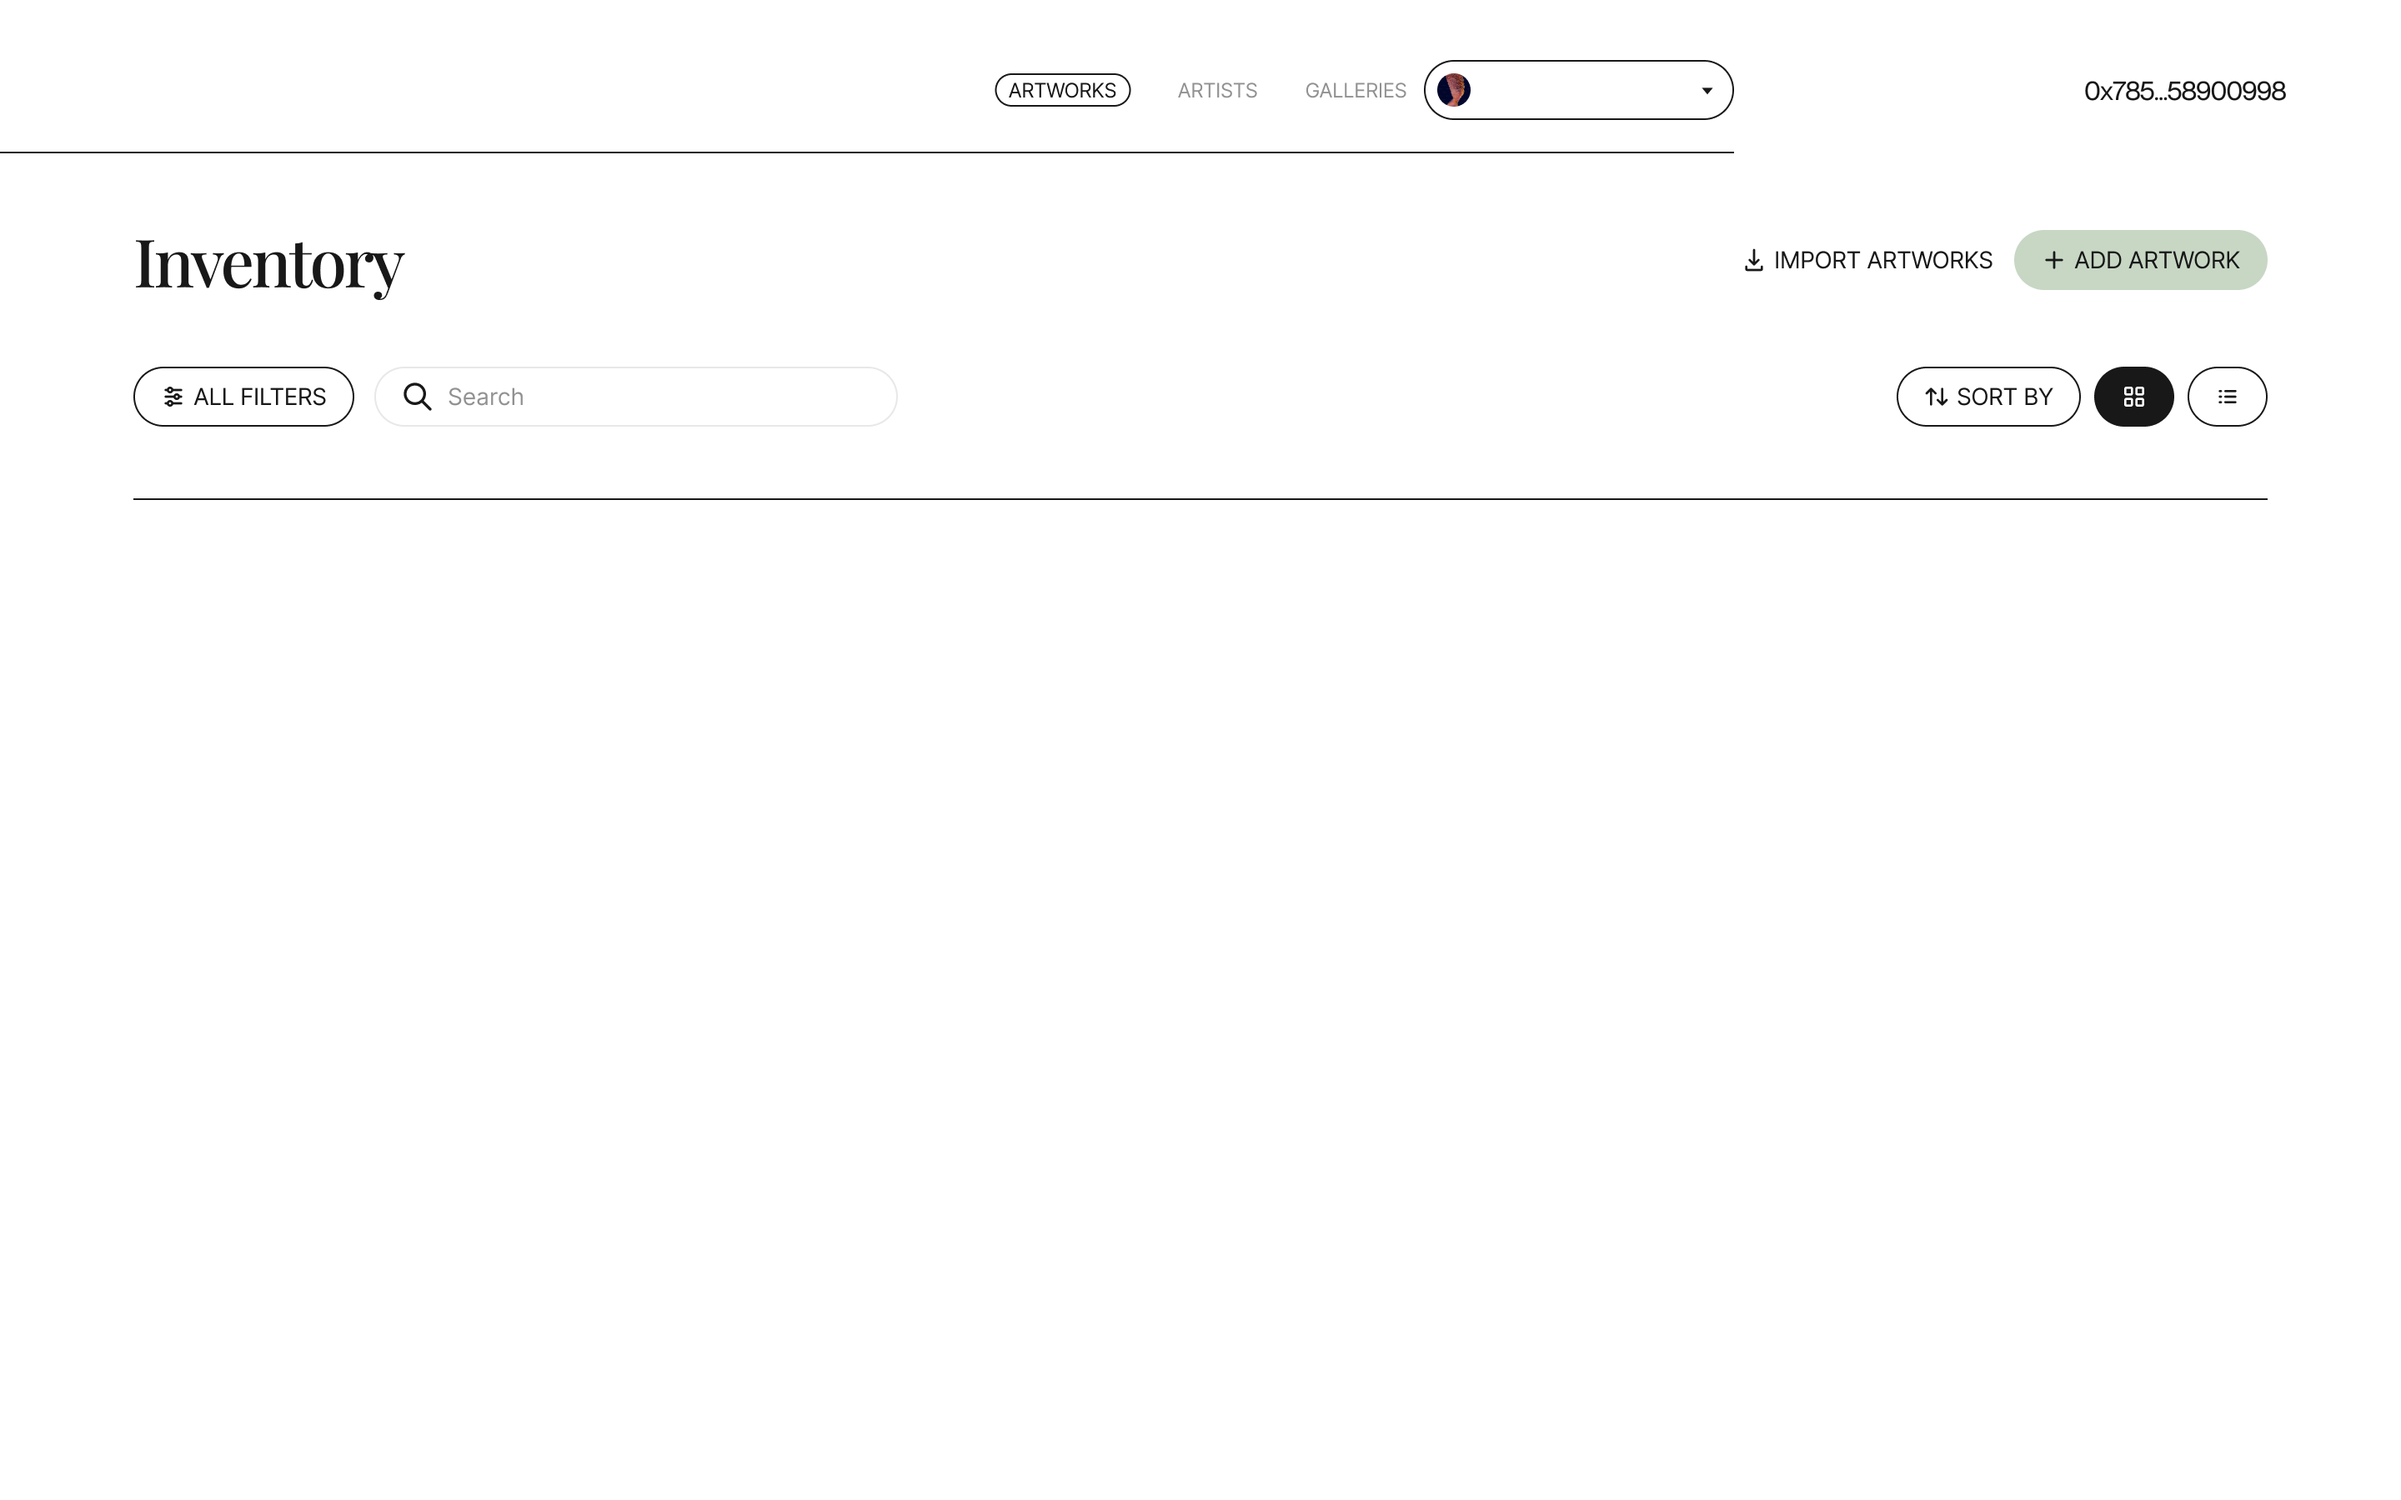
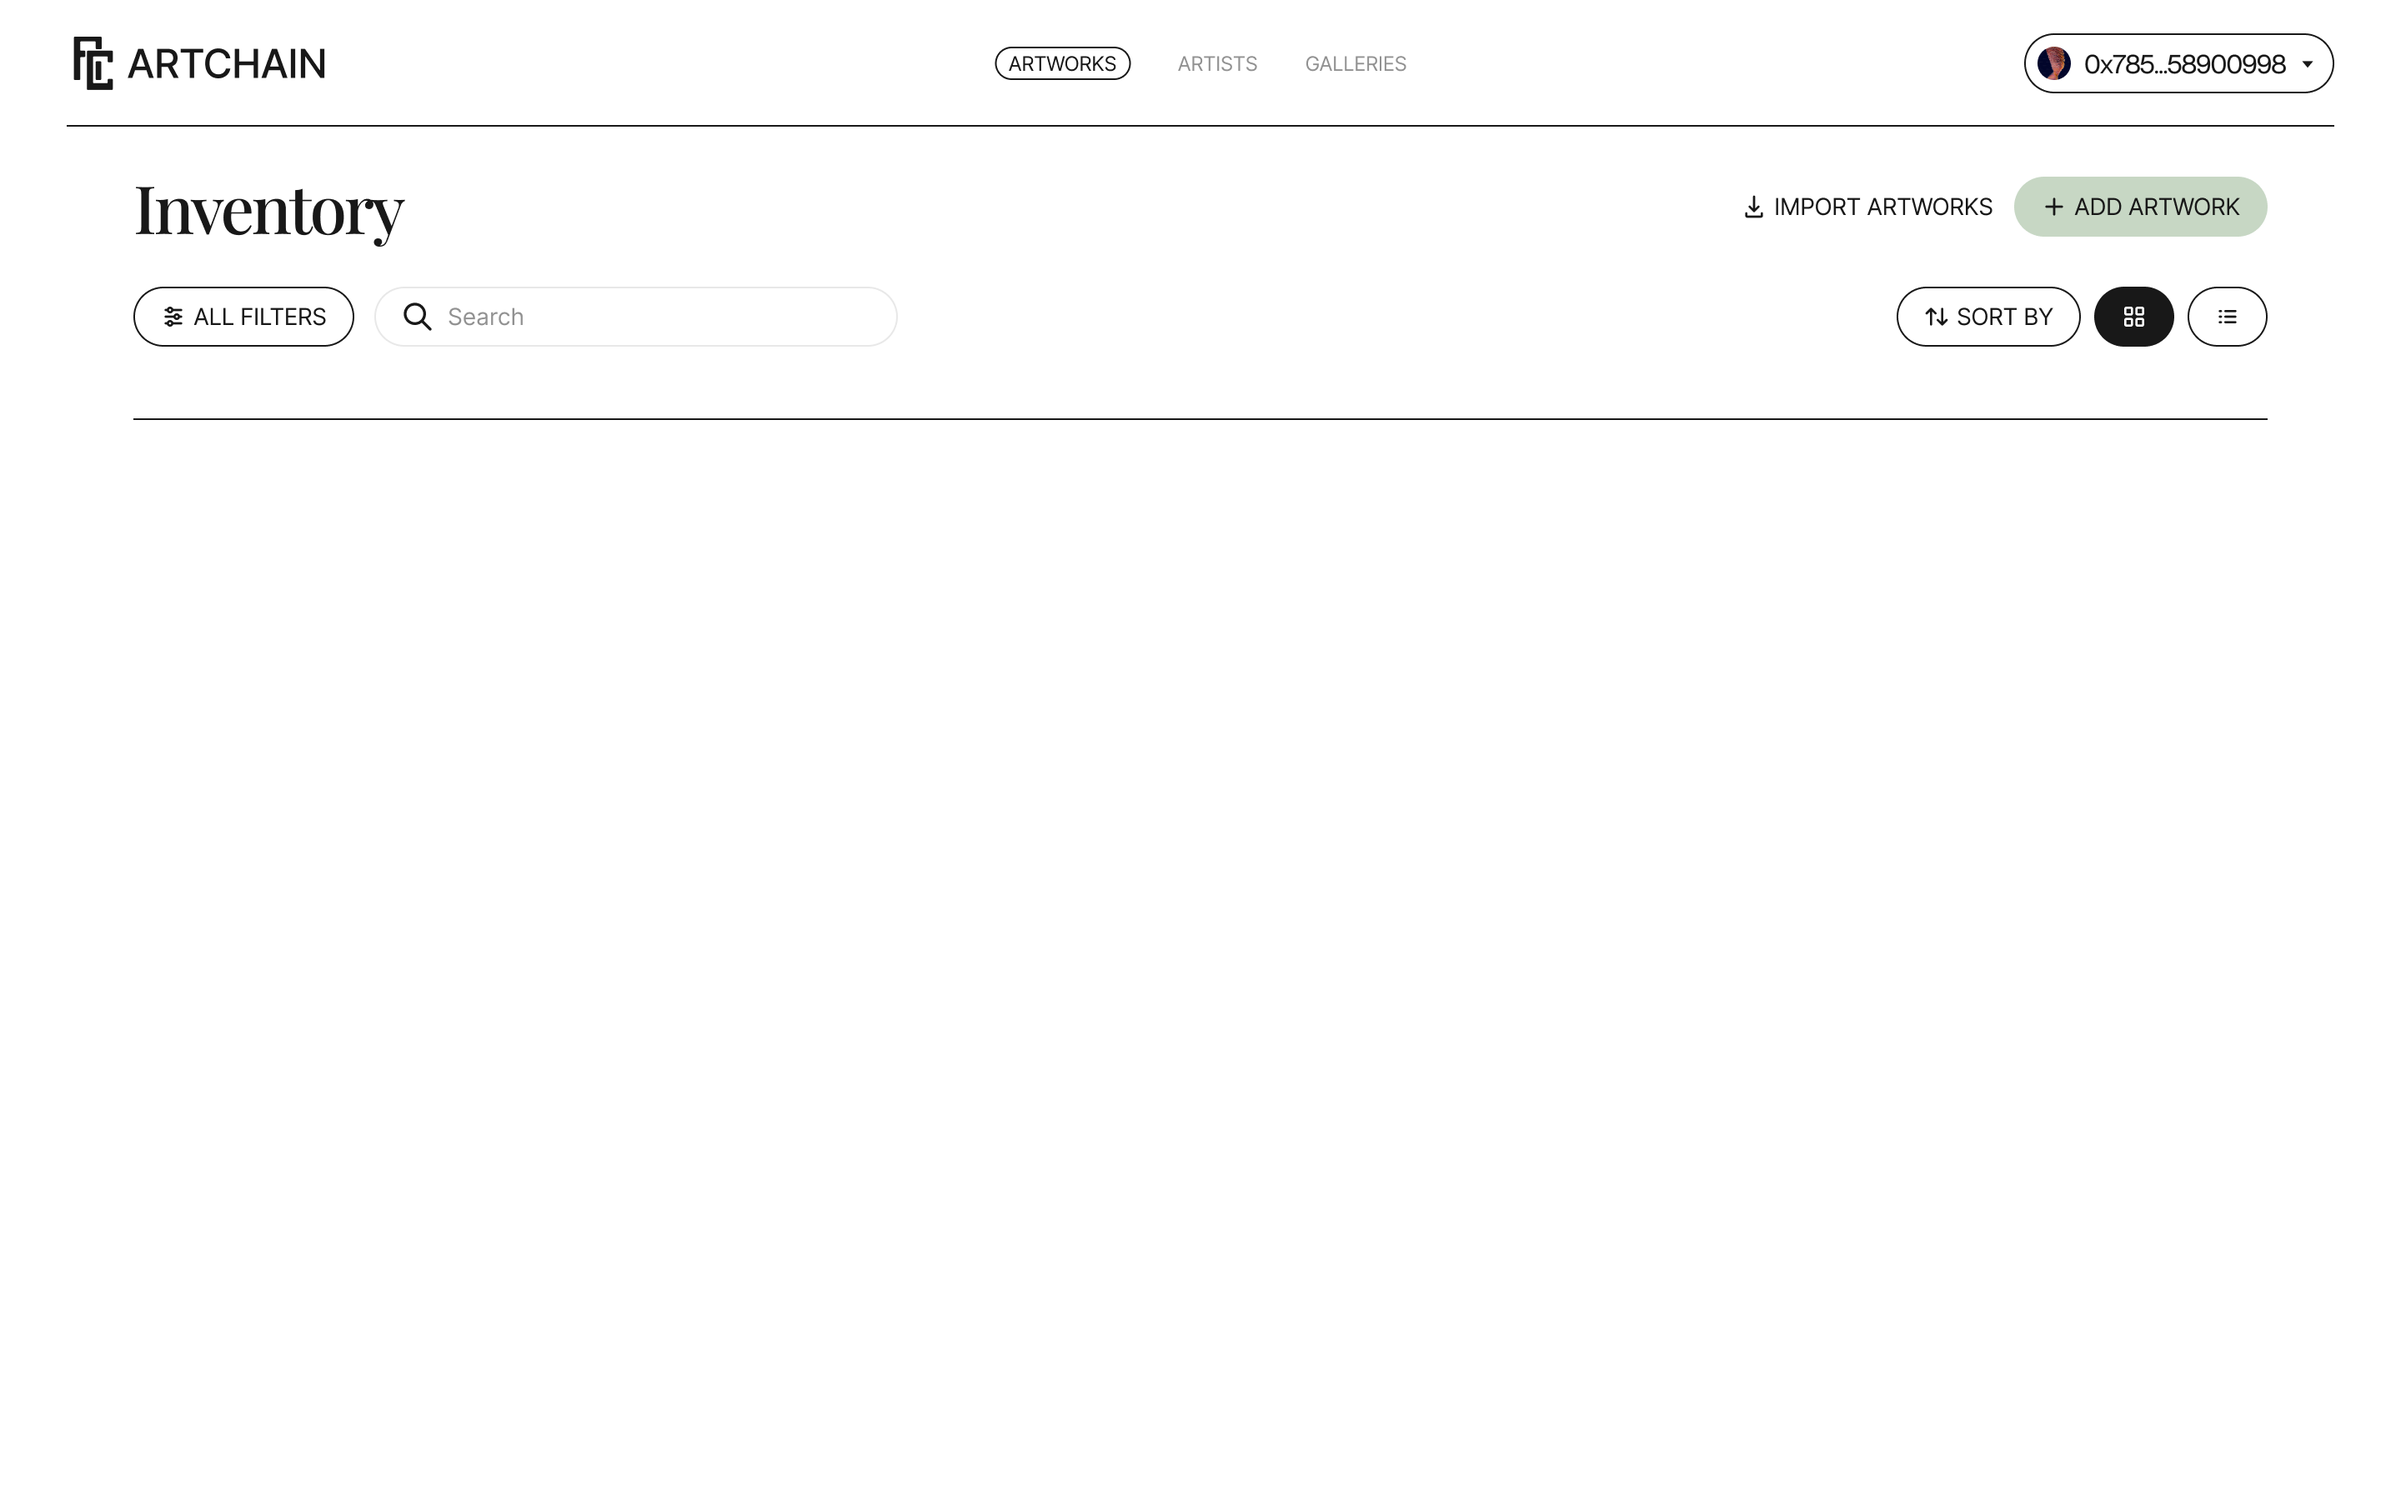
Showreel: fix Artchain grid header and DISio generated layer
- a-chrome-grid: re-exported layer with the full header (logo, nav,
  wallet) and the grid filters; cards move up to 272px to sit under it
- d-generated: re-exported from Figma at 2x with fonts loaded before the
  rescale; the old export had a broken layout (Regenerate and Save pushed
  out of the card, version rows over the text)

diff --git a/src/scripts/showreel.ts b/src/scripts/showreel.ts
@@ -169,7 +169,7 @@ export function initShowreel(reel: HTMLElement) {
     const s = 107 / 146;
     cards.forEach((card, i) => {
       const cardX = parseFloat(card.style.left);
-      const cardY = 320;
+      const cardY = 272;
       const tx = 80 + 140 - cardX - s * 72;
       const ty = rowTops[i] + 20 - cardY - s * 38;
       anim(
